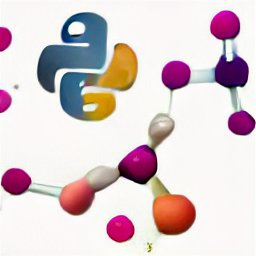
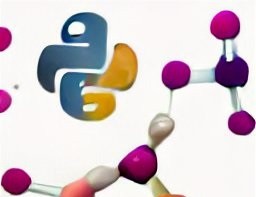
Change cover image size

diff --git a/pages/Get-with-the-program.html b/pages/Get-with-the-program.html
@@ -14,7 +14,7 @@
 	<meta property="og:image" content="../img/python-molecule.png">
 	<meta property="og:image:alt" content="Get with the program">
 	<meta property="og:image:width" content="256px">
-	<meta property="og:image:height" content="256px">
+	<meta property="og:image:height" content="197px">
 	<meta property="og:site_name" content="Nessa Carson website">
 	<meta property="og:locale" content="en_GB">
 	<meta name="twitter:creator" content="@supersciencegrl">
